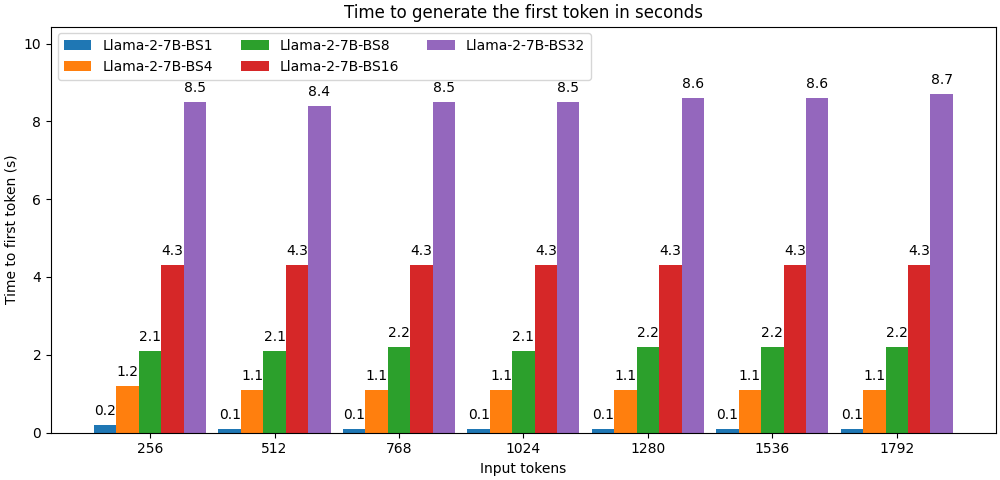
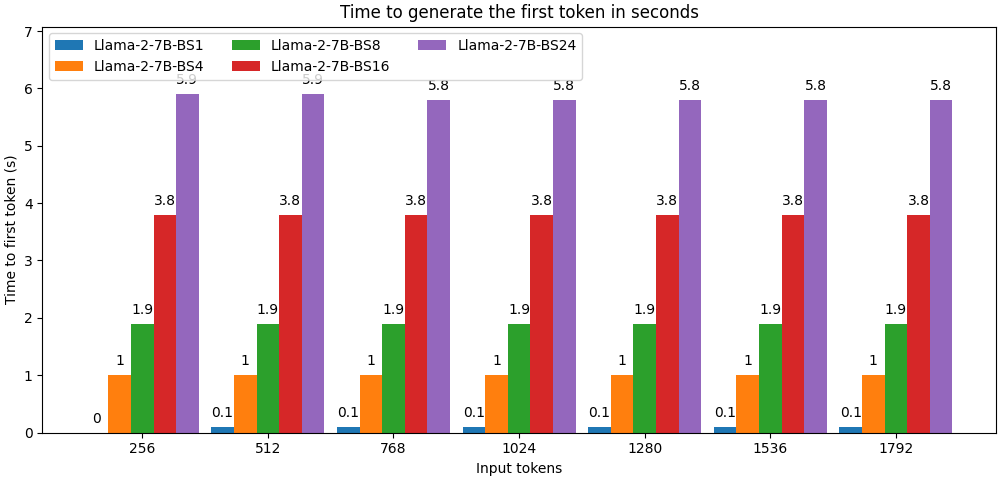
perf(llama7b): use 12 cores and update numbers

diff --git a/benchmark/text-generation/llama2-7b.py b/benchmark/text-generation/llama2-7b.py
@@ -8,7 +8,7 @@ from optimum.neuron.modeling_decoder import get_available_cores
 
 
 def main():
-    NUM_CORES = 8
+    NUM_CORES = 12
     num_cores = get_available_cores()
     if num_cores < NUM_CORES:
         raise ValueError(f"This benchmark can only run on an instance with at least {NUM_CORES} cores.")
@@ -18,7 +18,7 @@ def main():
         "Llama-2-7B-BS4": ["meta-llama/Llama-2-7b-chat-hf", 4, 4096],
         "Llama-2-7B-BS8": ["meta-llama/Llama-2-7b-chat-hf", 8, 4096],
         "Llama-2-7B-BS16": ["meta-llama/Llama-2-7b-chat-hf", 16, 4096],
-        "Llama-2-7B-BS32": ["meta-llama/Llama-2-7b-chat-hf", 32, 4096],
+        "Llama-2-7B-BS24": ["meta-llama/Llama-2-7b-chat-hf", 24, 4096],
     }
 
     for model_name, model_configuration in model_configurations.items():
